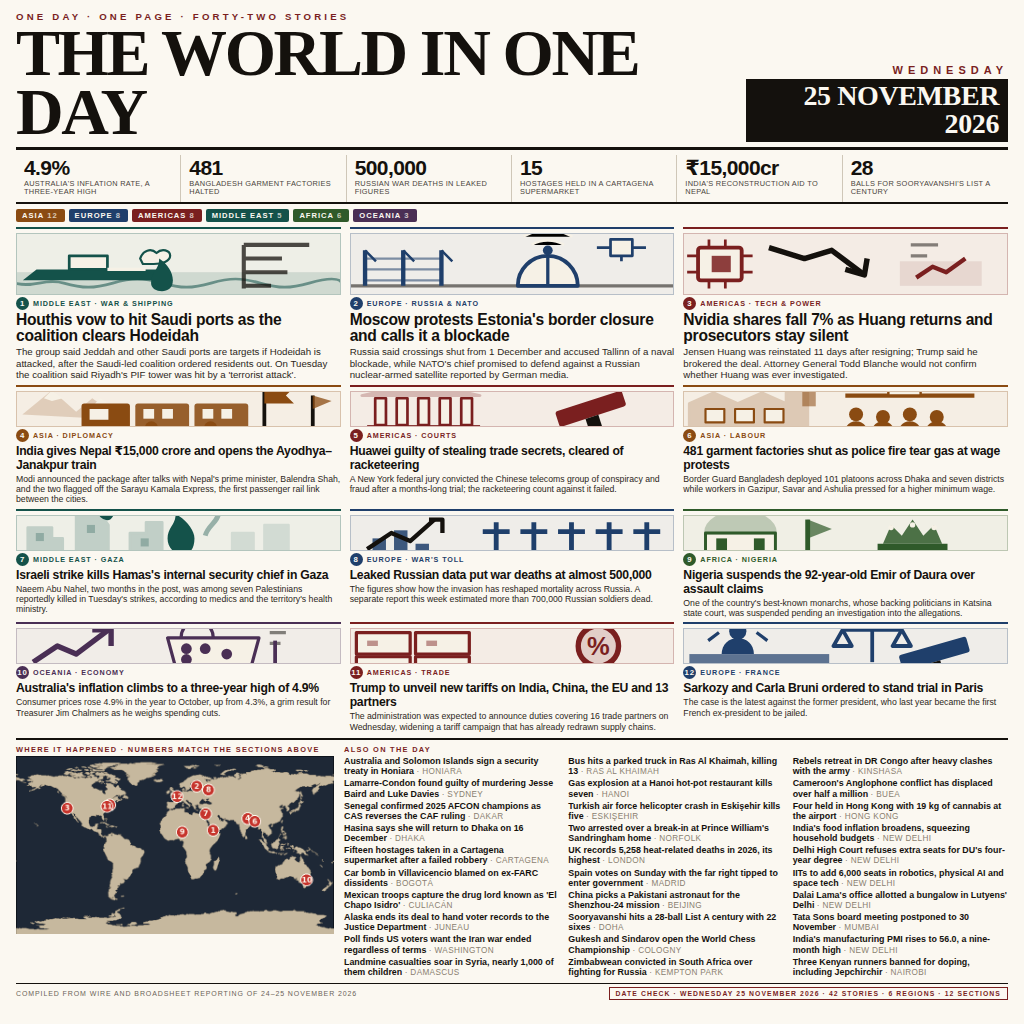
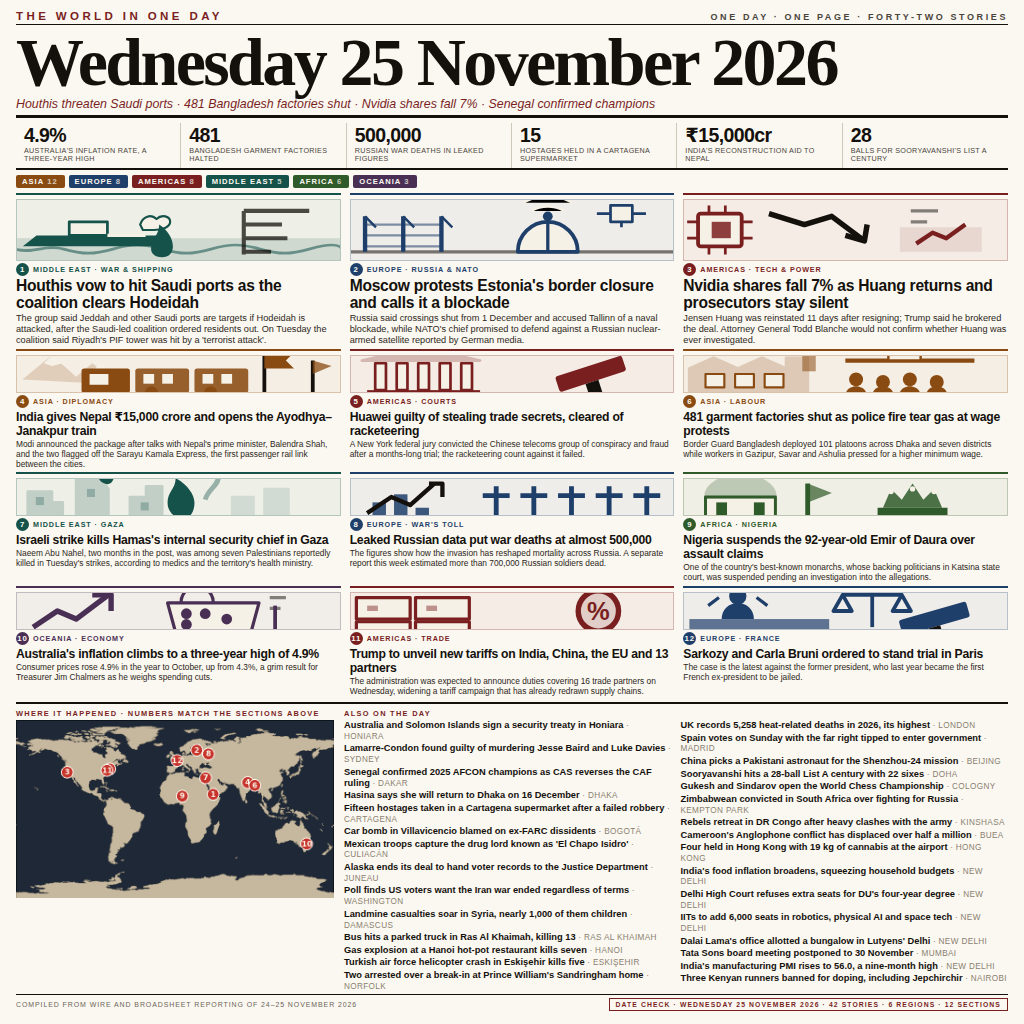
entry: the 25 November front page with the date as the masthead

diff --git a/main.ts b/main.ts
@@ -22,7 +22,7 @@ function validatePng(bytes: Buffer): void {
     );
   }
   if (!bytes.subarray(0, PNG_SIGNATURE.length).equals(PNG_SIGNATURE)) {
-    throw new Error("Invalid PNG signature");
+    throw new Error("Invalid PNG signature in entry.png");
   }
 
   const ihdrLength = bytes.readUInt32BE(8);
